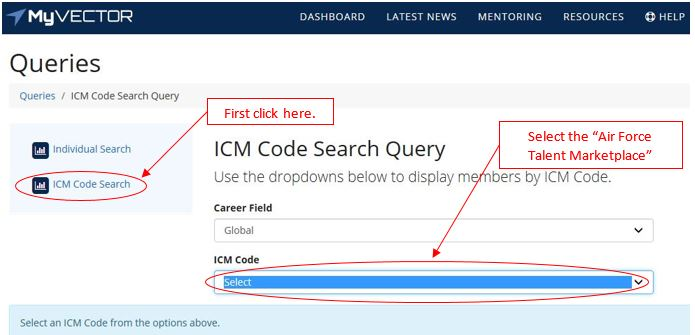
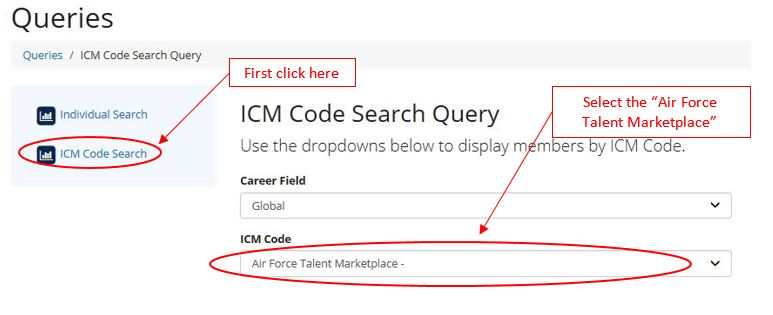
updated screenshots, added borders around screenshots for readability, minor text fixes

diff --git a/myvectorprofile/myvectorprofile.php b/myvectorprofile/myvectorprofile.php
@@ -12,7 +12,7 @@ if (!isset($_SESSION["uname"])) {
 <body>
 <?php include '../banner.php'; ?>
 <div class="col-md-3">  </div>
-    <div class="col-md-5">
+    <div class="col-md-6">
     <br> <br> <br>
     <h3>Instructions</h3>
     <p>As an officer on the VML, you are required to update your profile on MyVector. There you will be able to update your duty experience, skills, training, and education.  Having a detailed profile allows billet owners to have a better understanding of you as an officer as they search for the right person for their billet.  Follow the following tutorial on how to update your profile in MyVector.
@@ -32,12 +32,12 @@ You will need to create an account if you do not already have one.<br>
 
 You should see the following screen after logging in.  <br><br>
 
-<img src="splash.JPG" alt="Go to personal profile">
+<img src="splash.JPG" alt="Go to personal profile"  style="padding:2px;border:thin solid black;">
 
 <br><br>
 Update all the applicable fields in your personal profile. As an officer, your screen may look slightly different than what is shown.<br><br>
 
-<img src="profile.JPG" alt="Update your personal profile">
+<img src="profile.JPG" alt="Update your personal profile"  style="padding:2px;border:thin solid black;">
 
 <br><br>Click save when complete.
 
@@ -48,7 +48,7 @@ Update all the applicable fields in your personal profile. As an officer, your s
 <H3>Update your assignment history and relevant work experience.</H3>
 
 
-<img src="see my experience.JPG" alt="See My Experience"><br><br>
+<img src="see my experience.JPG" alt="See My Experience"  style="padding:2px;border:thin solid black;"><br><br>
 
 <p>Your duty distory should be automatically filled in.  The quick view table will display the following for each duty entry: Start date of the duty, Duty 
 
@@ -69,7 +69,7 @@ Note: MyVECTOR is Total Force, therefore if your component is incorrect, it is i
 initially display as Reserves due to the initial data source.
 
 
-<br><br><img src="duty.JPG" alt="Review your Duty History"> <br><br>
+<br><br><img src="duty.JPG" alt="Review your Duty History"  style="padding:2px;border:thin solid black;"> <br><br>
 
 <p> The "Other-Self Reported" section allows you to add experience garnered throughout your career that cannot be identified any place else (i.e. jobs with 
 
@@ -78,11 +78,11 @@ other services, deployment experience, previous military or civilian experience)
 dropdowns so it will appear on your experience summaries.  You can also edit existing entries in this section.
 
 
-<br><br><img src="edit self report.JPG" alt="See My Experience">
+<br><br><img src="edit self report.JPG" alt="See My Experience"  style="padding:2px;border:thin solid black;">
 
 <p>You will see the following screen when you create a new self-reported job.  Be sure to fill out all relevant information.
 
-<br><br><img src="add self report.JPG" alt="See My Experience">
+<br><br><img src="add self report.JPG" alt="See My Experience"  style="padding:2px;border:thin solid black;">
 
 <p>Click "Save" when finished.
 
@@ -112,7 +112,7 @@ and award date. Note: some sections on this table may be left blank if not appli
 
 You are also able to add additional education experience that is not automatically pulled from DCPDS, as shown below.
 
-<br><br><img src="education.JPG" alt="See My Experience">
+<br><br><img src="education.JPG" alt="See My Experience"  style="padding:2px;border:thin solid black;">
 
 
 
@@ -124,12 +124,12 @@ You are also able to add additional education experience that is not automatical
 
 "Development Plan" in the MyVector Dashboard.  Be sure to click the "Save" button in each tab after making changes.
 
-<br><br><img src="development plan.JPG" alt="Development Plan">
+<br><br><img src="development plan.JPG" alt="Development Plan"  style="padding:2px;border:thin solid black;">
 
 
 <p>The "Job Preferences" tab displays your job preferences to be considered by the Development Teams during the vectoring process.
 
-<br><br><img src="job pref.bmp" alt="Job Preferences">
+<br><br><img src="job pref.bmp" alt="Job Preferences"  style="padding:2px;border:thin solid black;">
 
 <p>The "Developmental Education" tab allows you to update your desire for training and/or Professional Military Education programs. You can enter your developmental education goals 
 
@@ -139,11 +139,11 @@ PME course. You can also view your current and historical Developmental Educatio
 
 will also be able to update you Advanced Studies Group intent on this tab.
 
-<br><br><img src="dev edu.bmp" alt="Development Education">
+<br><br><img src="dev edu.bmp" alt="Development Education"  style="padding:2px;border:thin solid black;">
 
 <p>The "Intent & Comments" tab allows you to outline any relevant details concerning your career plans, goals, answering developmental team group intent questions, and any other information you would like leadership to know about.
 
-<br><br><img src="intent.bmp" alt="Intent and Comments">
+<br><br><img src="intent.bmp" alt="Intent and Comments"  style="padding:2px;border:thin solid black;">
 
 
     </div>

diff --git a/officers/find_officer.php b/officers/find_officer.php
@@ -13,8 +13,9 @@ if (!isset($_SESSION["uname"])) {
 <?php include '../banner.php'; ?>
 
 
+
 <div class="col-md-3">  </div>
-    <div class="col-md-5">
+    <div class="col-md-6">
     <br> <br> <br>
     <h3>Instructions</h3>
     <p>You will be able to search for experienced officers via the Air Force MyVector database. While searching through the website, it is recommended you take notes and create a prioritized list of preferred officers that you find suitable for each one of your billets. Please submit this prioritized list through the <a href="../prefs/input.php">My Preference List</a> by 3 March 2017.  Follow the following tutorial on how to find officers on MyVector.
@@ -37,7 +38,7 @@ You should see the following screen after logging in. Then click your name on th
 
 <br>
 
-<img src="queries2.JPG" alt="Click queries to see officers profiles">
+<img src="queries2.JPG" alt="Click queries to see officers profiles" style="padding:2px;border:thin solid black;">
 
 <br><br>
 <p> 
@@ -45,22 +46,22 @@ Click on "ICM Code Search" on the left, and select "Air Force Talent Marketplace
 </p>
 <br><br>
 
-<img src="ICM_code.JPG" alt="Select Air Force Talent Marketplace under ICM Code"><br><br>
+<img src="ICM_code.JPG" alt="Select Air Force Talent Marketplace under ICM Code"  style="padding:2px;border:thin solid black;"><br><br>
 
 <br><br>
 <p> 
-The table will then populate with a list of available officers.  You can filter the list by clicking on the filter icon at the top of each 
+The table will then populate with a list of available officers that you can match to your billets.  You can filter the list by clicking on the filter icon at the top of each 
 
 column.  Click on the icon on left to see more detailed information about that specific officer.
 </p>
 
-<br><br><img src="search_table.JPG" alt="See My Experience">
+<br><br><img src="search_table.JPG" alt="See My Experience"  style="padding:2px;border:thin solid black;">
 
-<p>If you click on the details icon, you will see the following screen.  Here you can click on the menu on the left to see the following 
+<br><br><p>If you click on the details icon next to a particular officer, you will see the following window open up.  Here you can click on each item in the left menu to see more information related to their  career and development plan.
 
 information: </p>
 
-<br><br><img src="details.JPG" alt="See My Experience">
+<br><img src="details.JPG" alt="See My Experience"  style="padding:2px;border:thin solid black;">
 
     </div>
 
